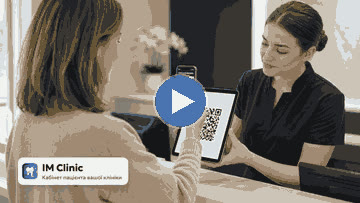
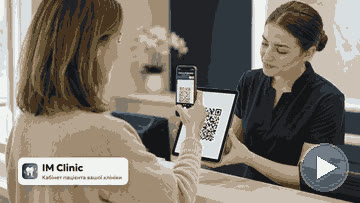
Промо IM Clinic: кадри GIF після перенесення ▶ у кут

diff --git a/video/previews/README.md b/video/previews/README.md
@@ -11,4 +11,4 @@
 - `scene7` — дубль 1 з 4: широка щира усмішка з природними зубами всі 5 с, без рук у кадрі; у дубля 2 псевдотекст на табличці й гримаса наприкінці. Старий кліп — `clips/scene7-old.mp4`.
 - `qr` — дубль 1 з 2: телефон наведено на планшет, адміністраторка усміхається; у дубля 2 телефон збоку від планшета.
 
-`gif-1`…`gif-3` — кадри з `work/clinic-promo.gif` (`./email-gif.sh` після f9090e8: 26 кадрів, 360×203, 16 кольорів, 284 КБ): QR на планшеті → головна з пушем → усмішка.
+`gif-1`…`gif-3` — кадри з `work/clinic-promo.gif` (`./email-gif.sh` після a3e0577: 26 кадрів, 360×203, 16 кольорів, 287 КБ, ▶ у правому нижньому куті): QR на планшеті → головна з пушем → усмішка.
